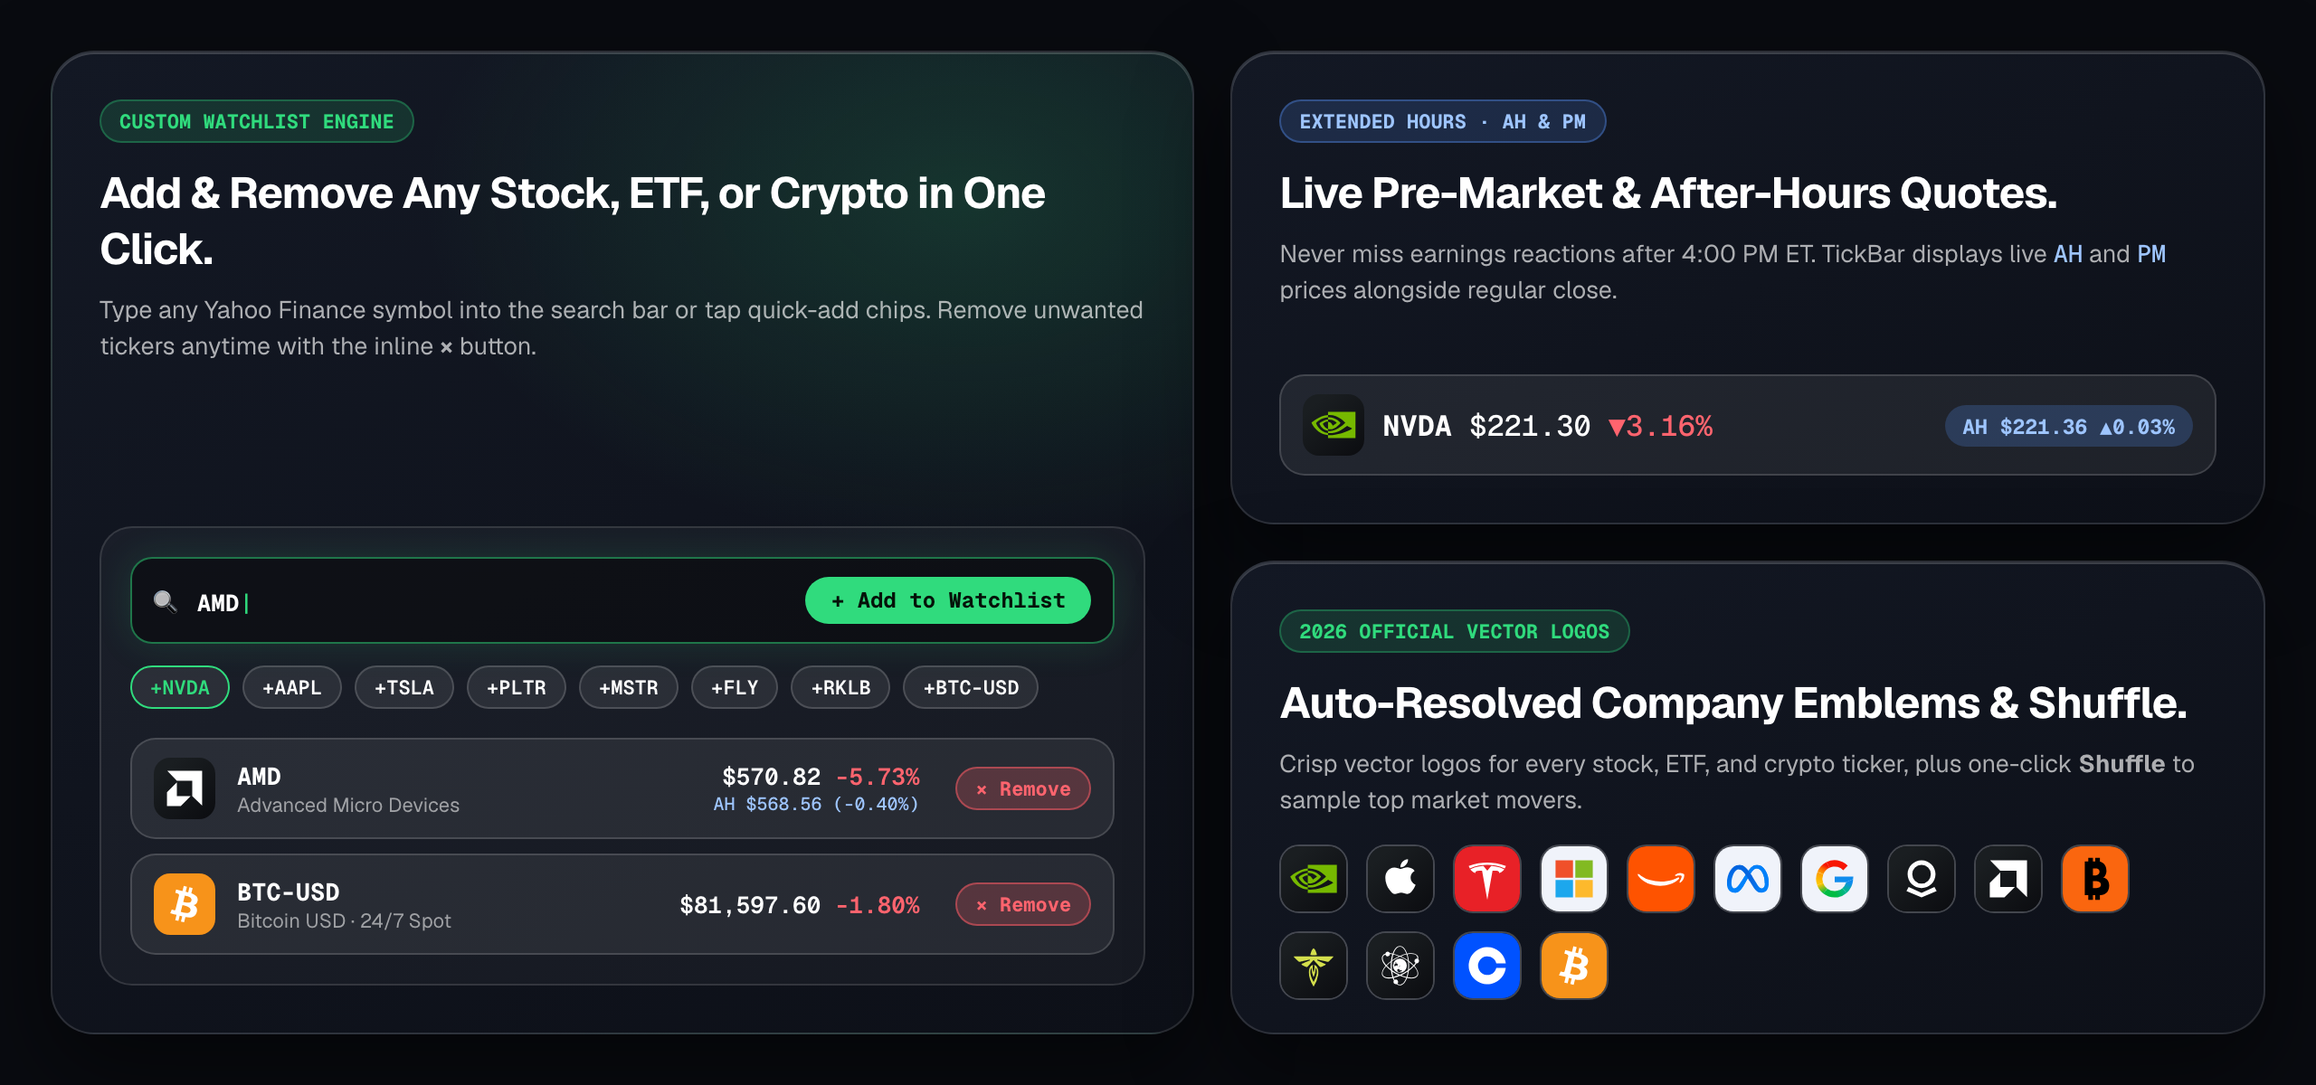
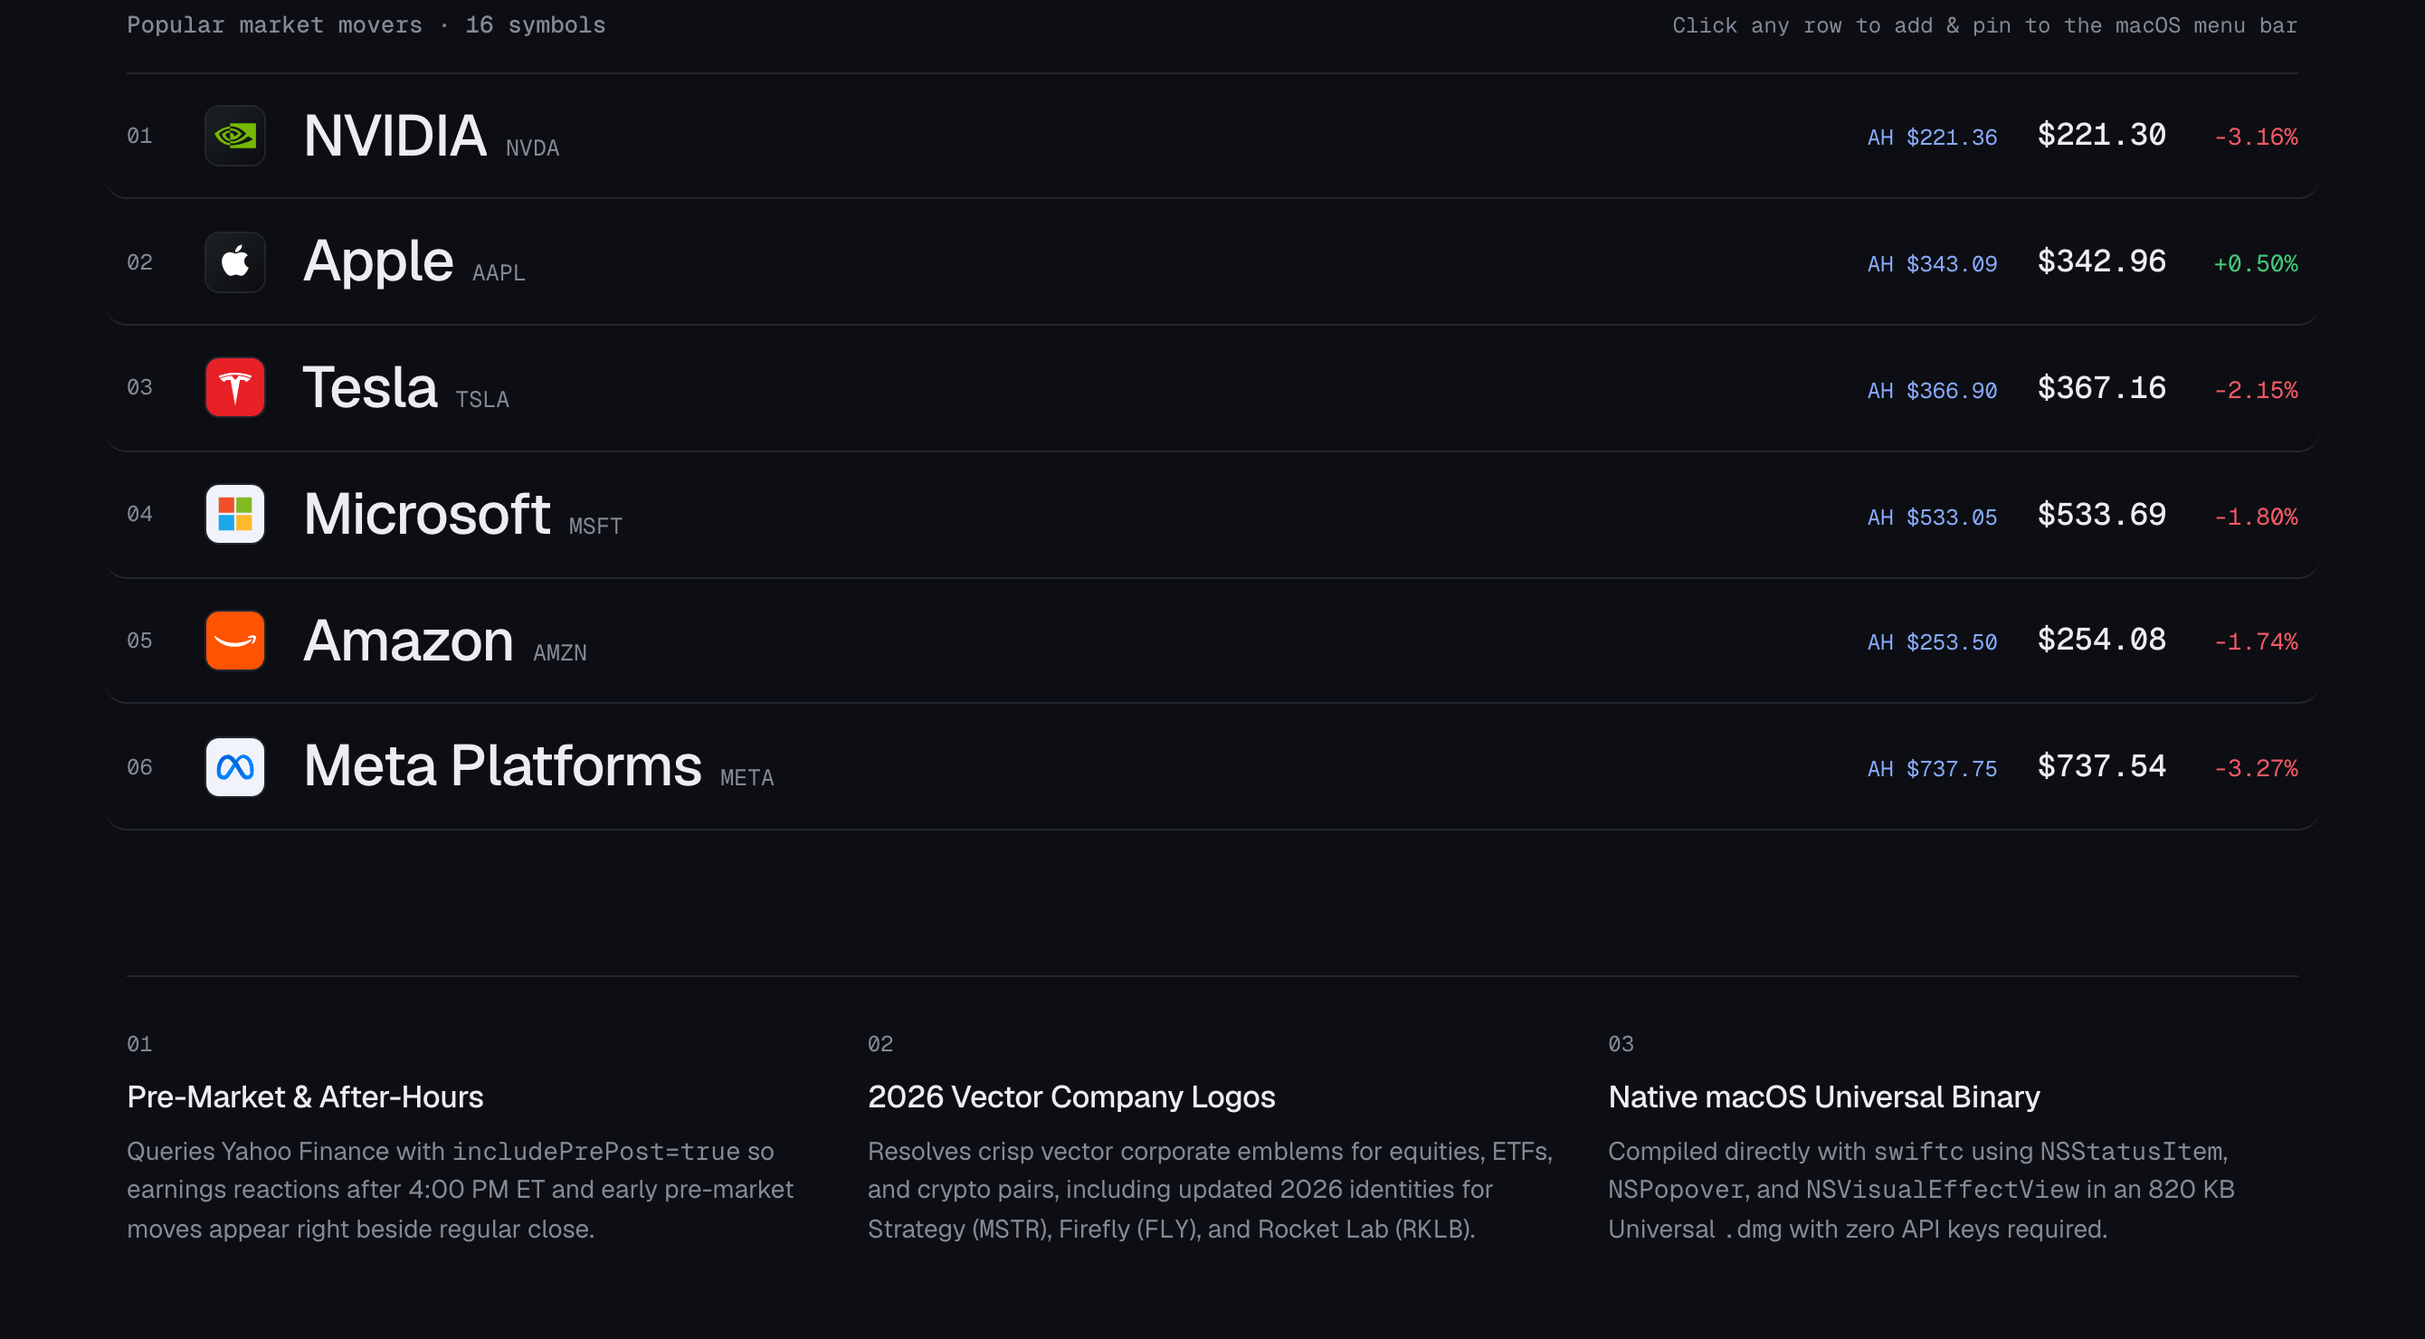
Update README and preview assets to match editorial web design

diff --git a/index.html b/index.html
@@ -1483,8 +1483,23 @@
     updateClock();
     setInterval(updateClock, 15000);
 
-    // Initialize with a randomized popular watchlist
-    randomizeWatchlist(6);
+    // Initialize with a randomized popular watchlist (or flagship order for ?demo=1 / ?demo=dir)
+    if (window.location.search.includes("demo=")) {
+      watchlist = ["NVDA", "AAPL", "TSLA", "MSFT", "PLTR", "MSTR"];
+      pinnedSymbol = "NVDA";
+      renderAll();
+      if (window.location.search.includes("demo=dir")) {
+        document.querySelector(".site-header").style.display = "none";
+        document.querySelector(".hero-group").style.display = "none";
+        document.querySelector(".stage-wrapper").style.display = "none";
+        document.querySelector(".wordmark-band").style.display = "none";
+        document.querySelector(".site-footer").style.display = "none";
+        document.querySelector(".directory-section").style.marginTop = "4px";
+        document.querySelectorAll(".dir-row").forEach((r, i) => { if (i >= 6) r.style.display = "none"; });
+      }
+    } else {
+      randomizeWatchlist(6);
+    }
     setInterval(() => fetchLiveQuotes(watchlist), 25000);
   </script>
 </body>

diff --git a/public/index.html b/public/index.html
@@ -1483,8 +1483,23 @@
     updateClock();
     setInterval(updateClock, 15000);
 
-    // Initialize with a randomized popular watchlist
-    randomizeWatchlist(6);
+    // Initialize with a randomized popular watchlist (or flagship order for ?demo=1 / ?demo=dir)
+    if (window.location.search.includes("demo=")) {
+      watchlist = ["NVDA", "AAPL", "TSLA", "MSFT", "PLTR", "MSTR"];
+      pinnedSymbol = "NVDA";
+      renderAll();
+      if (window.location.search.includes("demo=dir")) {
+        document.querySelector(".site-header").style.display = "none";
+        document.querySelector(".hero-group").style.display = "none";
+        document.querySelector(".stage-wrapper").style.display = "none";
+        document.querySelector(".wordmark-band").style.display = "none";
+        document.querySelector(".site-footer").style.display = "none";
+        document.querySelector(".directory-section").style.marginTop = "4px";
+        document.querySelectorAll(".dir-row").forEach((r, i) => { if (i >= 6) r.style.display = "none"; });
+      }
+    } else {
+      randomizeWatchlist(6);
+    }
     setInterval(() => fetchLiveQuotes(watchlist), 25000);
   </script>
 </body>

diff --git a/README.md b/README.md
@@ -1,100 +1,91 @@
 <div align="center">
 
-<img src="docs/assets/app-icon.png" width="116" height="116" alt="TickBar macOS App Icon" />
+<img src="docs/assets/app-icon.png" width="104" height="104" alt="TickBar macOS App Icon" />
 
-# TickBar
+# tickbar
 
-**Native macOS 27 Liquid Glass Menu Bar Stock Ticker & Floating Desktop Widget**
+**Live market & after-hours ticker for the macOS 27 menu bar.**
 
-Stream real-time **Yahoo Finance** regular session, **Pre-Market (PM)**, and **After-Hours (AH)** quotes with **2026 official vector company logos**, intraday sparklines, and a fully customizable watchlist right in your macOS status bar.
+A native SwiftUI and AppKit utility that streams real-time Yahoo Finance regular, Pre-Market (`PM`), and After-Hours (`AH`) quotes with 2026 vector company emblems. Add or remove any global ticker in seconds, free and open-source.
 
-[![macOS Universal](https://img.shields.io/badge/macOS-Universal%20Binary-000000?style=for-the-badge&logo=apple&logoColor=white)](https://tickbar.vercel.app/downloads/TickBar-macOS-Universal.dmg)
-[![Design Language](https://img.shields.io/badge/UI-macOS%2027%20Liquid%20Glass-1d4ed8?style=for-the-badge)](https://tickbar.vercel.app)
-[![Market Data](https://img.shields.io/badge/Yahoo%20Finance-24%2F5%20%2B%20After--Hours-22c55e?style=for-the-badge)](https://tickbar.vercel.app)
-[![License: MIT](https://img.shields.io/badge/License-MIT-f59e0b?style=for-the-badge)](LICENSE)
+[![macOS Universal](https://img.shields.io/badge/macOS-Universal_Binary-171922?style=flat-square&labelColor=0d0e13&logo=apple&logoColor=ecedf3)](https://tickbar.vercel.app/downloads/TickBar-macOS-Universal.dmg)
+[![UI](https://img.shields.io/badge/UI-macOS_27_Liquid_Glass-171922?style=flat-square&labelColor=0d0e13)](https://tickbar.vercel.app)
+[![Data](https://img.shields.io/badge/Feed-Yahoo_Finance_24%2F5_%2B_AH-171922?style=flat-square&labelColor=0d0e13)](https://tickbar.vercel.app)
+[![License](https://img.shields.io/badge/License-MIT-171922?style=flat-square&labelColor=0d0e13)](LICENSE)
 
 <br />
 
 <a href="https://tickbar.vercel.app/downloads/TickBar-macOS-Universal.dmg">
-  <img src="docs/assets/btn-download-dmg.svg" height="48" alt="Download TickBar for macOS (.DMG)" />
+  <img src="docs/assets/btn-download-dmg.svg" height="44" alt="Download TickBar.dmg · macOS Universal" />
 </a>
 &nbsp;&nbsp;
 <a href="https://tickbar.vercel.app">
-  <img src="docs/assets/btn-live-demo.svg" height="48" alt="Open Interactive Web Stage" />
+  <img src="docs/assets/btn-live-demo.svg" height="44" alt="tickbar.vercel.app" />
 </a>
 
 <br /><br />
 
-<img src="docs/assets/hero-macos27.png" width="100%" alt="TickBar macOS 27 Liquid Glass Menu Bar & Floating Desktop Widget Preview" />
+<img src="docs/assets/hero-macos27.png" width="100%" alt="TickBar macOS 27 Menu Bar and Liquid Glass Popover" />
 
 </div>
 
 ---
 
-## Designed Like a Native Apple Utility
+## 01 · Watchlist Customization
 
-TickBar is built from the ground up with **SwiftUI + AppKit** (`NSStatusItem`, `NSPopover`, `NSPanel`, and `NSVisualEffectView`) following the **macOS 27 Liquid Glass** design system. Every surface features translucent specular highlights, SF Pro & SF Mono tabular numerals, and sub-millisecond responsiveness in a binary under **1 MB**.
+TickBar is never locked to a static list of tickers. Manage your symbols directly inside the macOS 27 menu bar popover:
+
+| Control | Behavior |
+| :--- | :--- |
+| **`+ Add` Any Symbol** | Type any valid Yahoo Finance ticker (`NVDA`, `AAPL`, `TSLA`, `AMD`, `PLTR`, `FLY`, `RKLB`, `MSTR`, `SPY`, `QQQ`, `BTC-USD`, `ETH-USD`) into the search box and press `Return`. |
+| **Quick-Add Chips** | One-click popular symbol pills (`+AMZN`, `+META`, `+GOOGL`, `+AMD`, `+NFLX`, `+COIN`, `+SPY`) sit below the input for instant additions. |
+| **Pin to Menu Bar** | Click any stock row in the popover (or in the interactive web directory) to pin that ticker and its live `AH` / `PM` quote to the top macOS status bar. |
+| **`×` Inline Remove** | Click `×` on the right side of any row to remove a ticker from your watchlist immediately. |
+| **`⇄ Shuffle` Movers** | Sample a fresh random selection of active market movers with a single click. |
 
 <p align="center">
-  <img src="docs/assets/bento-features.png" width="100%" alt="TickBar Custom Watchlist, After-Hours Quotes, and 2026 Official Vector Logos" />
+  <img src="docs/assets/bento-features.png" width="100%" alt="TickBar Indexed Market Directory and Specifications" />
 </p>
 
 ---
 
-## Add, Remove & Customize Any Stock, ETF, or Crypto
+## 02 · Pre-Market (`PM`) & After-Hours (`AH`)
 
-You have complete control over your watchlist. TickBar is never locked to a static list of tickers:
+Markets move outside the 9:30 AM to 4:00 PM ET bell. TickBar queries Yahoo Finance with `includePrePost=true` to stream:
 
-| Action | How It Works in TickBar |
-| :--- | :--- |
-| **➕ Add Any Ticker** | Type **any valid Yahoo Finance symbol** (`NVDA`, `AAPL`, `TSLA`, `AMD`, `PLTR`, `FLY`, `RKLB`, `MSTR`, `SPY`, `QQQ`, `BTC-USD`, `ETH-USD`, or international equities) into the search bar and press **Return** or click **`+ Add`**. |
-| **⚡ Quick-Add Chips** | One-click popular ticker pills (`+AMD`, `+SPY`, `+QQQ`, `+COIN`, `+RKLB`, `+HOOD`, `+BTC-USD`) appear below the search bar so you can populate your watchlist in a single tap. |
-| **✖ Remove Any Ticker** | Click the inline **`×`** button on the right side of any row in the menu bar popover to immediately remove that symbol from your watchlist. |
-| **📌 Pin to Menu Bar** | Click any stock row in the popover to pin that symbol and its live **After-Hours (`AH`) / Pre-Market (`PM`)** price directly to your top macOS status bar. |
-| **⇄ Shuffle Popular Stocks** | Click **`⇄ Shuffle`** in the header to load a fresh random sample of 7 high-volume market movers from the 2026 flagship catalog. |
-
-Your custom watchlist and preferences are automatically persisted in `UserDefaults` across restarts.
+- **Regular Session Quote & Sparkline** with a 30-point intraday vector chart and tabular percent change.
+- **Extended Hours (`AH` / `PM`) Live Quote** rendered both in the popover list and inline inside the top macOS status bar (`NVDA $221.30 ▼3.16% · AH $221.36 ▲0.03%`).
+- **24/7 Crypto Spot Feed** (`BTC-USD`, `ETH-USD`, `SOL-USD`) alongside US and international equities.
 
 ---
 
-## 2026 Official Vector Company Logos
+## 03 · 2026 Vector Company Logos
 
-TickBar resolves high-contrast vector company emblems for your watchlist, including updated **2026 corporate identities** (such as Strategy `MSTR`, Firefly Aerospace `FLY`, Rocket Lab `RKLB`, Palantir `PLTR`, and Coinbase `COIN`):
+TickBar resolves high-contrast vector corporate emblems for your watchlist, including updated 2026 identities for Strategy (`MSTR`), Firefly Aerospace (`FLY`), Rocket Lab (`RKLB`), Palantir (`PLTR`), and Coinbase (`COIN`):
 
 <div align="center">
 
-| | Ticker | Company | | Ticker | Company | | Ticker | Company | | Ticker | Company |
+| | Symbol | Company | | Symbol | Company | | Symbol | Company | | Symbol | Company |
 | :---: | :--- | :--- | :---: | :--- | :--- | :---: | :--- | :--- | :---: | :--- | :--- |
-| <img src="docs/assets/logos/nvda.svg" width="28" height="28" /> | **`NVDA`** | NVIDIA Corp. | <img src="docs/assets/logos/aapl.svg" width="28" height="28" /> | **`AAPL`** | Apple Inc. | <img src="docs/assets/logos/tsla.svg" width="28" height="28" /> | **`TSLA`** | Tesla, Inc. | <img src="docs/assets/logos/msft.svg" width="28" height="28" /> | **`MSFT`** | Microsoft Corp. |
-| <img src="docs/assets/logos/amzn.svg" width="28" height="28" /> | **`AMZN`** | Amazon.com | <img src="docs/assets/logos/meta.svg" width="28" height="28" /> | **`META`** | Meta Platforms | <img src="docs/assets/logos/googl.svg" width="28" height="28" /> | **`GOOGL`** | Alphabet Inc. | <img src="docs/assets/logos/pltr.svg" width="28" height="28" /> | **`PLTR`** | Palantir Tech |
-| <img src="docs/assets/logos/amd.svg" width="28" height="28" /> | **`AMD`** | Adv. Micro Devices | <img src="docs/assets/logos/nflx.svg" width="28" height="28" /> | **`NFLX`** | Netflix, Inc. | <img src="docs/assets/logos/mstr.svg" width="28" height="28" /> | **`MSTR`** | Strategy Inc. | <img src="docs/assets/logos/coin.svg" width="28" height="28" /> | **`COIN`** | Coinbase Global |
-| <img src="docs/assets/logos/spy.svg" width="28" height="28" /> | **`SPY`** | SPDR S&P 500 ETF | <img src="docs/assets/logos/qqq.svg" width="28" height="28" /> | **`QQQ`** | Invesco QQQ | <img src="docs/assets/logos/hood.svg" width="28" height="28" /> | **`HOOD`** | Robinhood Markets | <img src="docs/assets/logos/sofi.svg" width="28" height="28" /> | **`SOFI`** | SoFi Technologies |
-| <img src="docs/assets/logos/rklb.svg" width="28" height="28" /> | **`RKLB`** | Rocket Lab USA | <img src="docs/assets/logos/fly.svg" width="28" height="28" /> | **`FLY`** | Firefly Aerospace | <img src="docs/assets/logos/asts.svg" width="28" height="28" /> | **`ASTS`** | AST SpaceMobile | <img src="docs/assets/logos/btc.svg" width="28" height="28" /> | **`BTC-USD`** | Bitcoin USD |
+| <img src="docs/assets/logos/nvda.svg" width="26" height="26" /> | **`NVDA`** | NVIDIA | <img src="docs/assets/logos/aapl.svg" width="26" height="26" /> | **`AAPL`** | Apple | <img src="docs/assets/logos/tsla.svg" width="26" height="26" /> | **`TSLA`** | Tesla | <img src="docs/assets/logos/msft.svg" width="26" height="26" /> | **`MSFT`** | Microsoft |
+| <img src="docs/assets/logos/amzn.svg" width="26" height="26" /> | **`AMZN`** | Amazon | <img src="docs/assets/logos/meta.svg" width="26" height="26" /> | **`META`** | Meta Platforms | <img src="docs/assets/logos/googl.svg" width="26" height="26" /> | **`GOOGL`** | Alphabet | <img src="docs/assets/logos/pltr.svg" width="26" height="26" /> | **`PLTR`** | Palantir |
+| <img src="docs/assets/logos/amd.svg" width="26" height="26" /> | **`AMD`** | AMD | <img src="docs/assets/logos/nflx.svg" width="26" height="26" /> | **`NFLX`** | Netflix | <img src="docs/assets/logos/mstr.svg" width="26" height="26" /> | **`MSTR`** | Strategy | <img src="docs/assets/logos/coin.svg" width="26" height="26" /> | **`COIN`** | Coinbase |
+| <img src="docs/assets/logos/spy.svg" width="26" height="26" /> | **`SPY`** | S&P 500 ETF | <img src="docs/assets/logos/qqq.svg" width="26" height="26" /> | **`QQQ`** | Invesco QQQ | <img src="docs/assets/logos/hood.svg" width="26" height="26" /> | **`HOOD`** | Robinhood | <img src="docs/assets/logos/sofi.svg" width="26" height="26" /> | **`SOFI`** | SoFi |
+| <img src="docs/assets/logos/rklb.svg" width="26" height="26" /> | **`RKLB`** | Rocket Lab | <img src="docs/assets/logos/fly.svg" width="26" height="26" /> | **`FLY`** | Firefly Aerospace | <img src="docs/assets/logos/asts.svg" width="26" height="26" /> | **`ASTS`** | AST SpaceMobile | <img src="docs/assets/logos/btc.svg" width="26" height="26" /> | **`BTC-USD`** | Bitcoin USD |
 
 </div>
 
-Any custom ticker added via the search bar automatically resolves its official icon or generates a colour-matched monogram badge.
-
 ---
 
-## Extended Hours: Pre-Market (`PM`) & After-Hours (`AH`)
+## 04 · Installation
 
-Markets move outside the 9:30 AM to 4:00 PM ET bell. TickBar queries Yahoo Finance with `includePrePost=true` to stream:
-- **Regular Session Price & Percent Change** with a 30-point intraday vector sparkline.
-- **After-Hours (`AH`) & Pre-Market (`PM`) Live Price & Delta** displayed both in the popover list and directly inside the top macOS Menu Bar pill (`NVDA $221.30 ▼3.16% · AH $221.36 ▲0.03%`).
-- **24/7 Crypto Spot Streaming** (`BTC-USD`, `ETH-USD`, `SOL-USD`) alongside US & global equities.
-
----
-
-## Installation
-
-### Option 1: Direct Universal `.DMG` Installer (Recommended)
+### Direct Universal `.DMG` Installer
 
 1. Download **[`TickBar-macOS-Universal.dmg`](https://tickbar.vercel.app/downloads/TickBar-macOS-Universal.dmg)**.
-2. Open the `.dmg` image and drag **`TickBar.app`** into your **`/Applications`** folder.
-3. Launch **TickBar** from Applications or Spotlight. It appears immediately in your top-right macOS Menu Bar.
+2. Open the `.dmg` disk image and drag **`TickBar.app`** to **`/Applications`**.
+3. Launch **TickBar** from Applications or Spotlight. It attaches directly to your top-right macOS menu bar.
 
-### Option 2: Build from Source
+### Build from Source
 
 Requires macOS 13.0+ and Xcode Command Line Tools (`swiftc`):
 
@@ -107,17 +98,17 @@ open public/downloads/TickBar-macOS-Universal.dmg
 
 ---
 
-## Architecture
+## 05 · Architecture
 
-| Component | Path | Description |
+| Module | Path | Description |
 | :--- | :--- | :--- |
-| **macOS Native App** | [`macos-app/Sources/TickBar.swift`](macos-app/Sources/TickBar.swift) | Native SwiftUI + AppKit (`NSStatusItem`, `NSPopover`, `NSPanel`, `VisualEffectGlassView`) with Yahoo Finance `v8/finance/chart` (`includePrePost=true`) & `v7/finance/quote` live engine |
-| **Universal DMG Builder** | [`macos-app/build_dmg.sh`](macos-app/build_dmg.sh) | Compiles `arm64` + `x86_64` universal binary (`lipo`), generates `.icns`, signs bundle, and packages `TickBar-macOS-Universal.dmg` |
-| **Live Yahoo Finance API** | [`api/quotes.js`](api/quotes.js) | Vercel Serverless edge proxy returning real-time regular, Pre-Market (`PM`), and After-Hours (`AH`) quotes + intraday sparklines |
-| **Interactive Web Stage** | [`public/index.html`](public/index.html) | Interactive macOS 27 Liquid Glass web showcase with live add/remove watchlist, shuffle, and extended-hours preview |
+| **macOS Menu Bar App** | [`macos-app/Sources/TickBar.swift`](macos-app/Sources/TickBar.swift) | Native SwiftUI + AppKit (`NSStatusItem`, `NSPopover`, `NSVisualEffectView`) with Yahoo Finance `v8/finance/chart` (`includePrePost=true`) and `v7/finance/quote` live feed |
+| **Universal DMG Builder** | [`macos-app/build_dmg.sh`](macos-app/build_dmg.sh) | Compiles `arm64` + `x86_64` Universal binary (`lipo`), generates `.icns`, signs bundle, and packages `TickBar-macOS-Universal.dmg` |
+| **Yahoo Finance Edge Proxy** | [`api/quotes.js`](api/quotes.js) | Serverless proxy returning real-time regular, Pre-Market (`PM`), and After-Hours (`AH`) quotes with intraday sparklines |
+| **Interactive Web Directory** | [`public/index.html`](public/index.html) | Responsive `mkdir.directory`-inspired web stage (`Geist` + `Geist Mono`) with interactive popover and indexed market directory |
 
 ---
 
 ## License
 
-Released under the [MIT License](LICENSE). Crafted by [@anldrms](https://github.com/anldrms).
+Released under the [MIT License](LICENSE). Crafted by [anldrms](https://github.com/anldrms).
